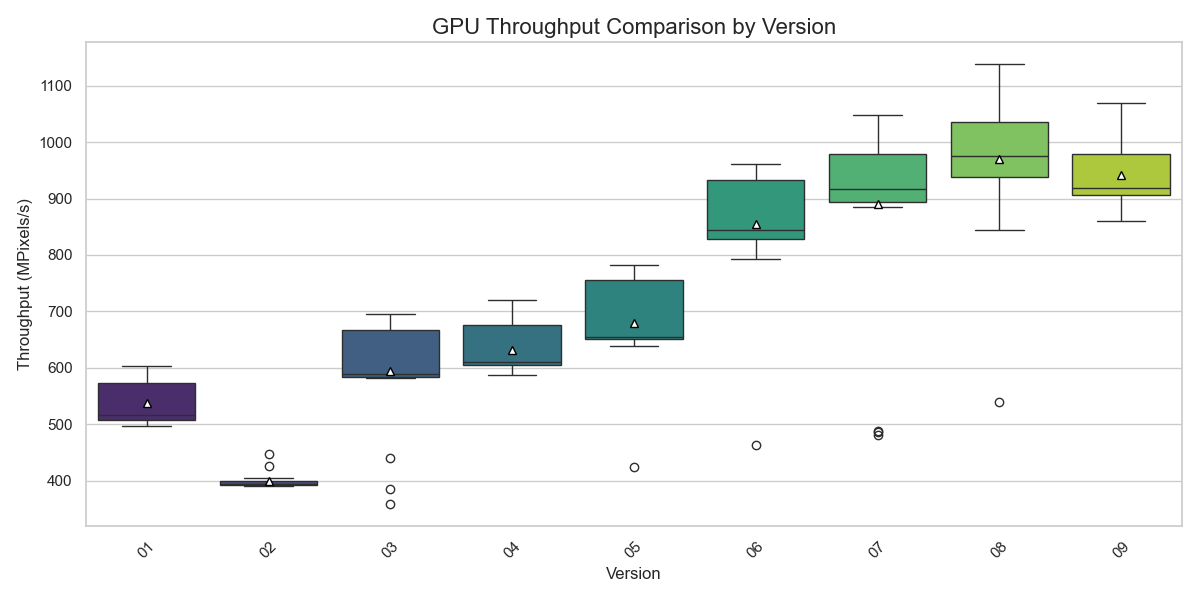
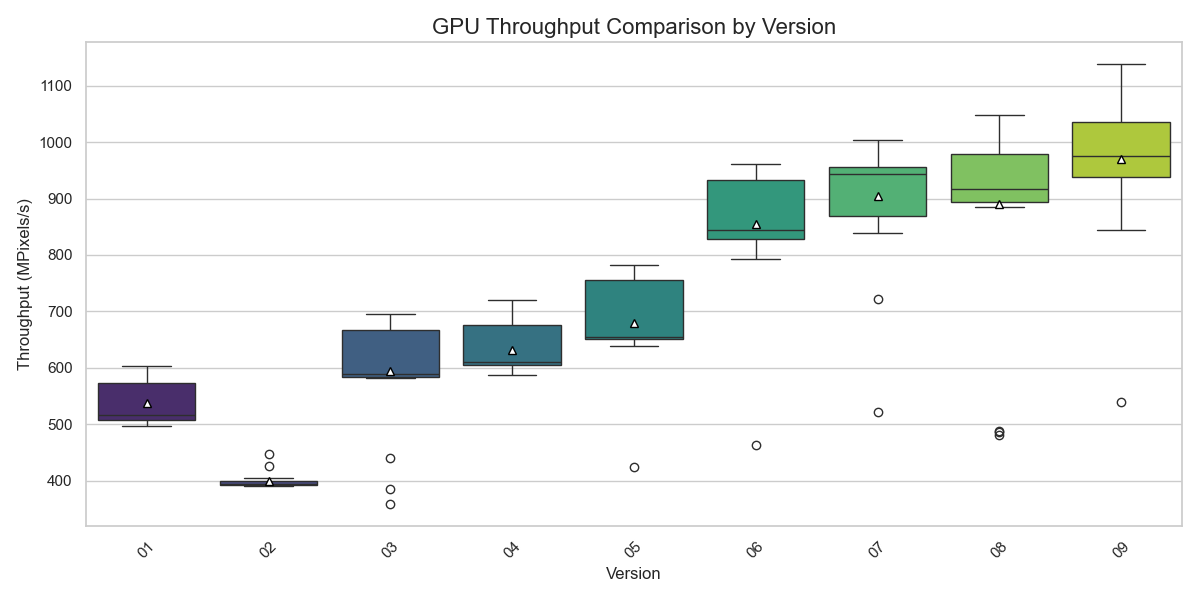
Add v7 runs and update plots

diff --git a/Lab4/create_plot.py b/Lab4/create_plot.py
@@ -8,7 +8,7 @@ import os
 value_col = "GPU Throughput (MPixels/s)"
 filename_col = "Filename"
 
-csv_files = glob.glob("csv-planet_surface/*.csv")
+csv_files = glob.glob("csv-senator/*.csv")
 
 if not csv_files:
     print("No CSV files found in the current directory.")
